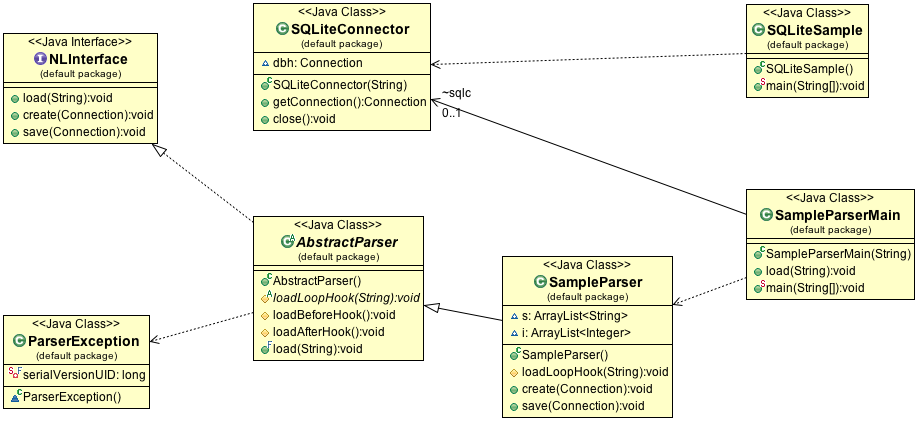
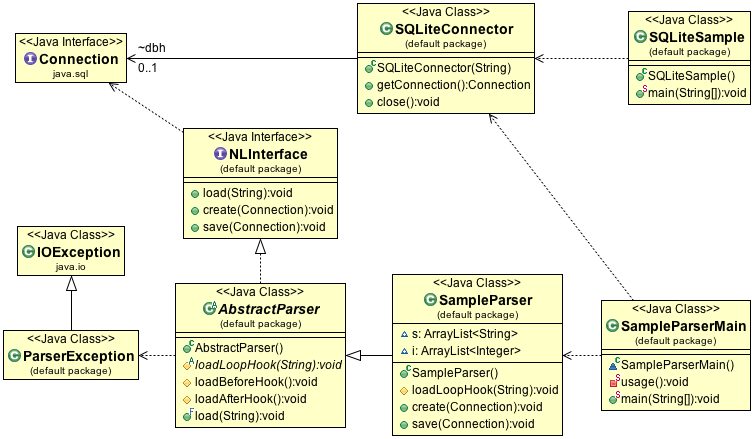
simplify SampleParserMain

diff --git a/src/SampleParserMain.java b/src/SampleParserMain.java
@@ -1,41 +1,36 @@
-import java.io.*;
 import java.sql.*;
 
 class SampleParserMain {
-	SQLiteConnector sqlc;
-
-	public SampleParserMain(String dbname) {
-		sqlc = new SQLiteConnector(dbname);
-	}
-
-	public void load(String file) {
-		Connection conn = sqlc.getConnection();
-		try {
-			SampleParser sp = new SampleParser();
-			sp.load(file);
-			sp.create(conn);
-			sp.save(conn);
-		} catch (IOException e) {
-			System.err.println("Parse error in SampleParser");
-			e.printStackTrace();
-		} catch (SQLException e) {
-			System.err.println("SQL Error in SampleParser");
-			e.printStackTrace();
-		}
+	private static void usage() {
+		System.err.println("Required just two arguments.");
+		System.err.println("Usage:");
+		System.err.println("	java SampleParserMain [dbname] [inputfile]");
 	}
 
 	public static void main(String[] args) {
 		if (args.length != 2) {
-			System.err.println("Required just two arguments.");
-			System.err.println("Usage:");
-			System.err.println("	java SampleParserMain [dbname] [inputfile]");
+			usage();
 			System.exit(1);
 		}
 
 		String dbname    = args[0];
 		String inputfile = args[1];
 
-		SampleParserMain spm = new SampleParserMain(dbname);
-		spm.load(inputfile);
+		SQLiteConnector sqlc = new SQLiteConnector(dbname);
+		Connection conn = sqlc.getConnection();
+		NLInterface nli = new SampleParser();
+		try {
+			nli.load(inputfile);
+			nli.create(conn);
+			nli.save(conn);
+		} catch (ParserException e) {
+			System.err.println("Parse error in SampleParser");
+			e.printStackTrace();
+		} catch (SQLException e) {
+			System.err.println("SQL Error in SampleParser");
+			e.printStackTrace();
+		} finally {
+			sqlc.close();
+		}
 	}
 }

diff --git a/src/SQLiteSample.java b/src/SQLiteSample.java
@@ -1,6 +1,6 @@
 import java.sql.*;
 
-public class SQLiteSample {
+class SQLiteSample {
 	public static void main(String[] args) {
 		String dbname = args.length > 0 ? args[0] : ":memory:";
 		SQLiteConnector sqlc = new SQLiteConnector(dbname);
